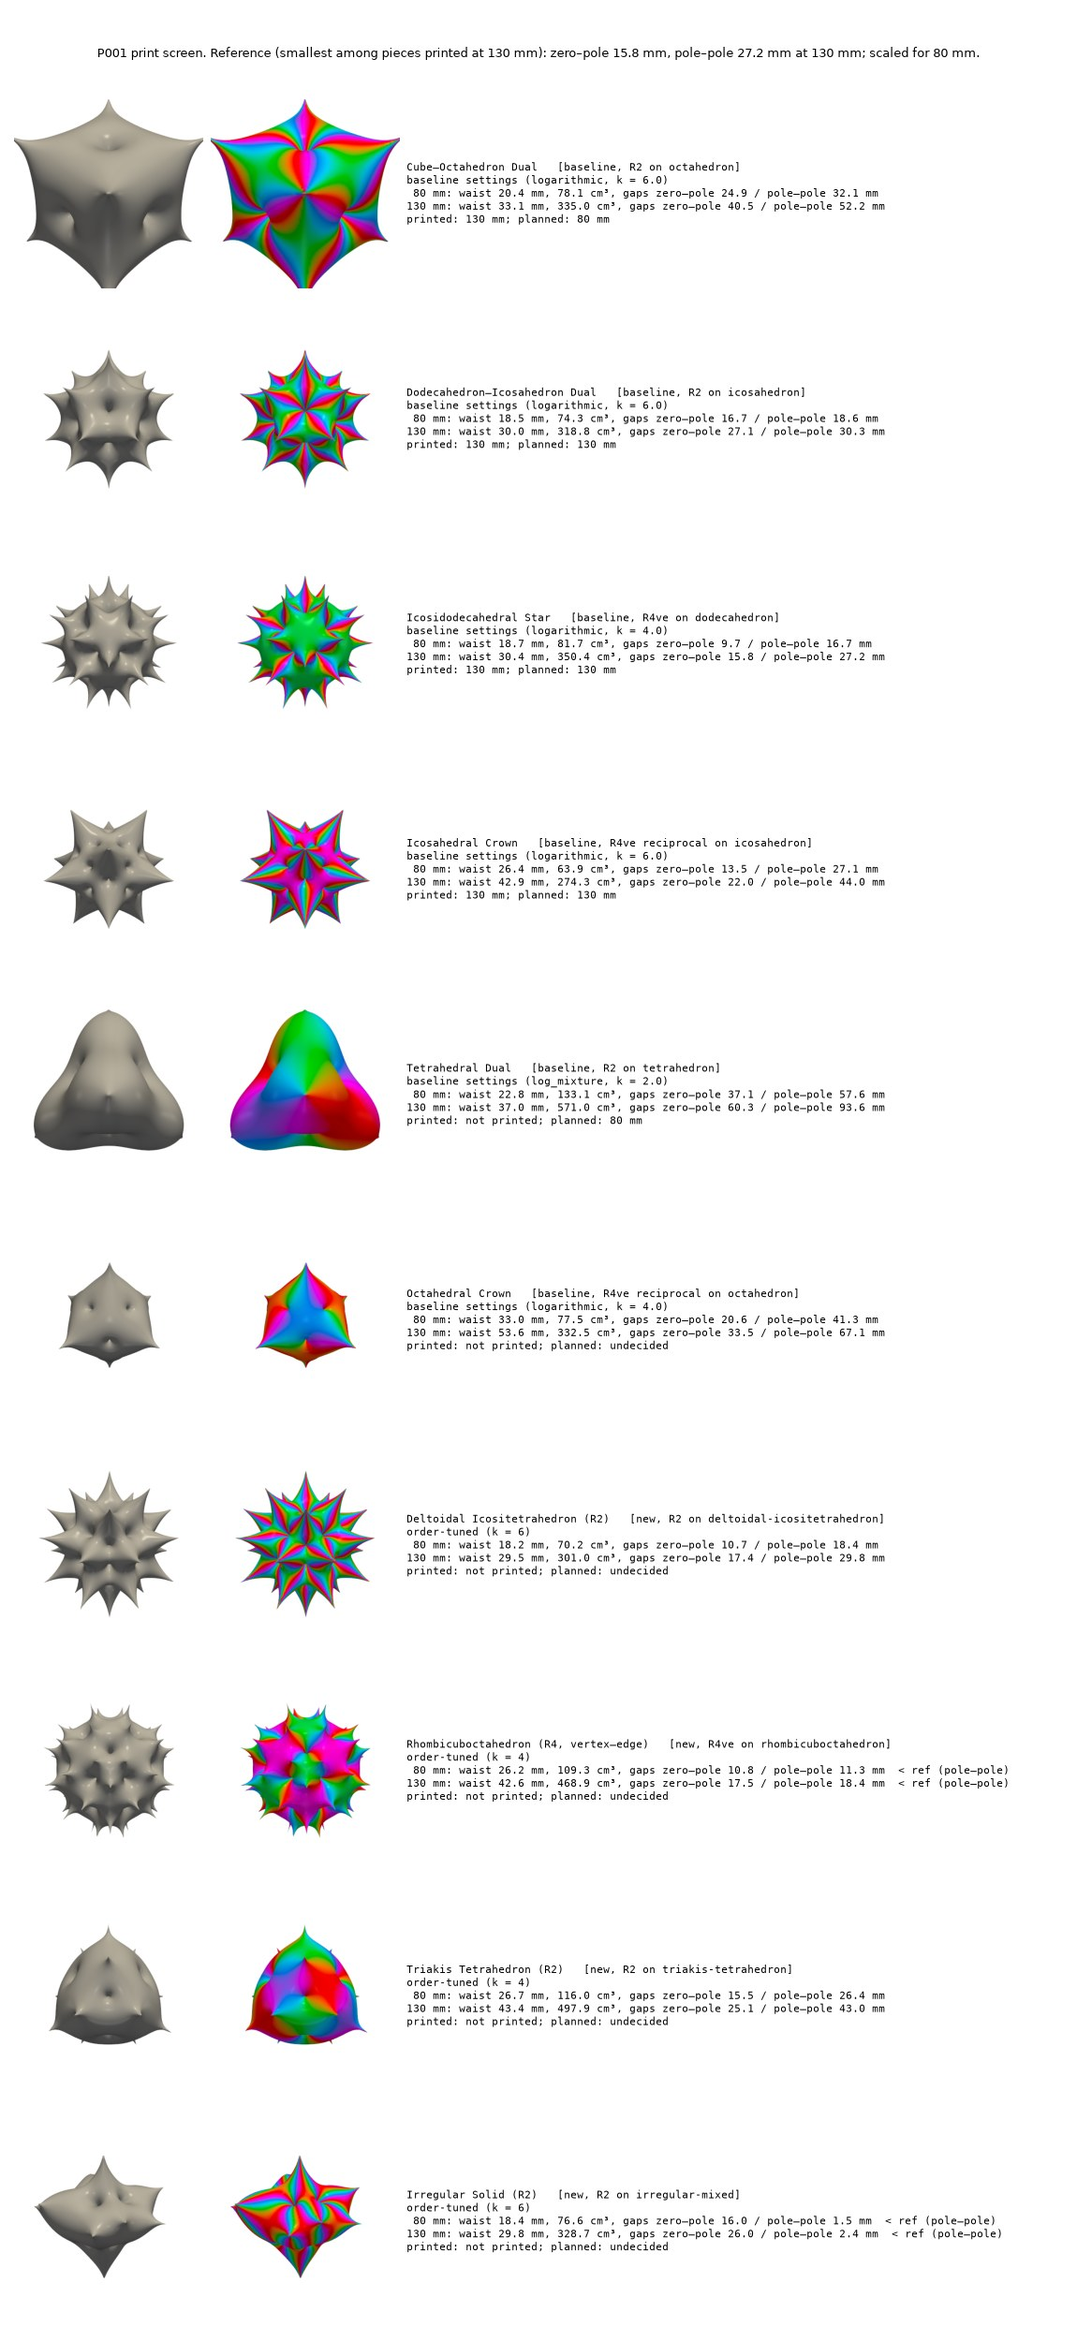
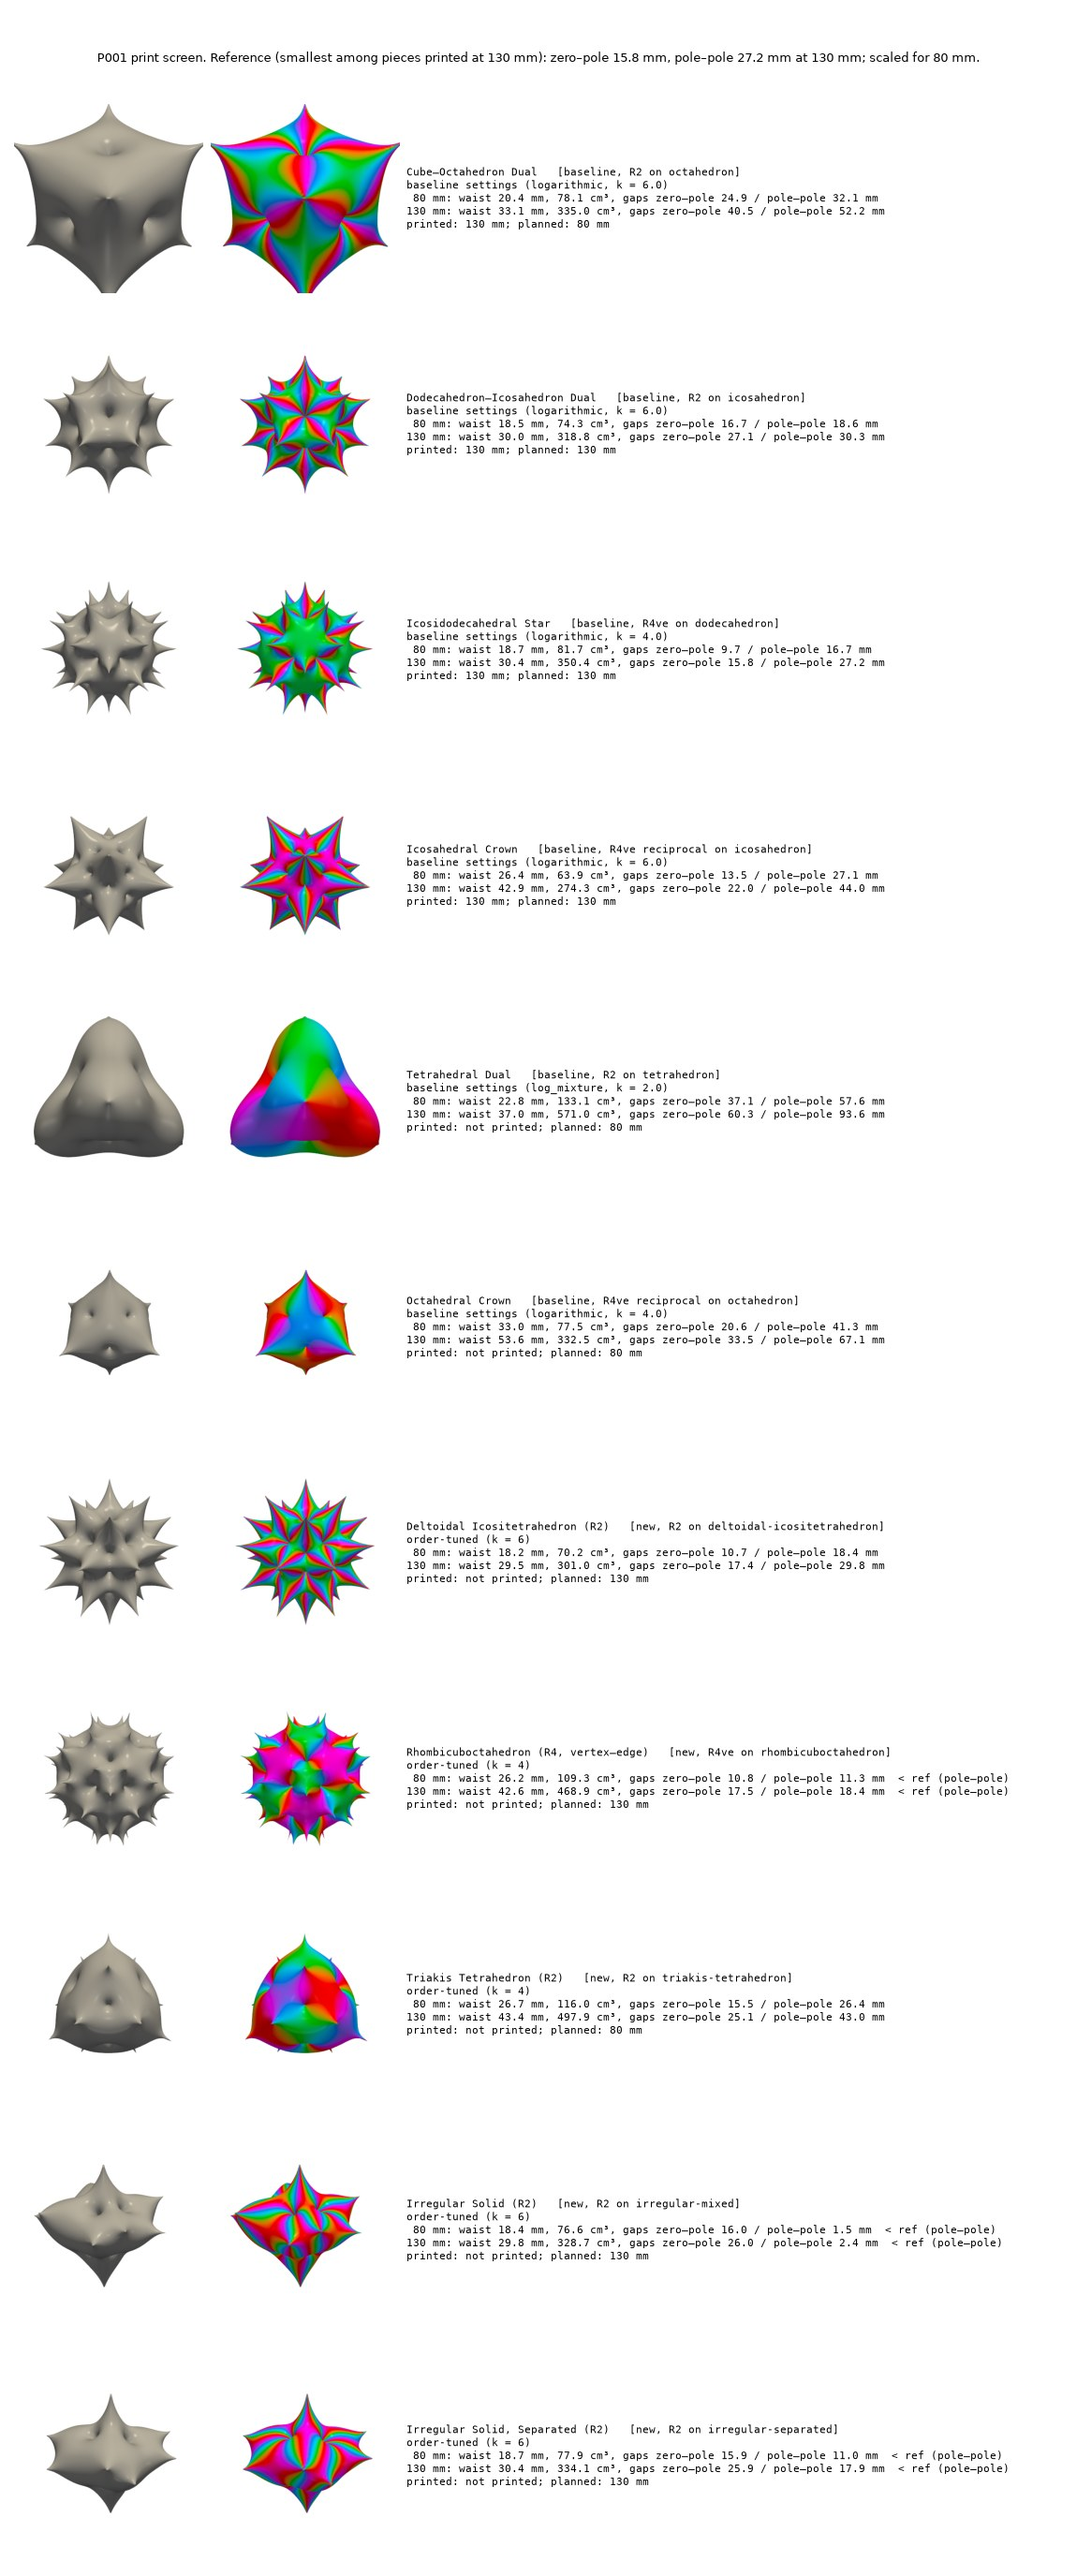
P001-print-screen: rerun with irregular-separated and the shared meshing path
Claude-Session: https://claude.ai/code/session_01QNebQPZ4GBj3ZAru4Lb3oM

diff --git a/catalog/CHECKLIST.md b/catalog/CHECKLIST.md
@@ -15,7 +15,7 @@ edit by hand: change the catalog and regenerate.
 | Rhombicuboctahedron (R4, vertex–edge) | new | screened | yes | –/– | 130 mm | – | – | – | export 80 and 130 mm STLs (B2) |
 | Triakis Tetrahedron (R2) | new | screened | yes | –/– | 80 mm | – | – | – | export 80 and 130 mm STLs (B2) |
 | Irregular Solid (R2) | new | screened | yes | –/– | 130 mm | – | – | – | export 80 and 130 mm STLs (B2) |
-| Irregular Solid, Separated (R2) | new | candidate | – | –/– | 130 mm | – | – | – | screen at 80 and 130 mm (B1) |
+| Irregular Solid, Separated (R2) | new | screened | yes | –/– | 130 mm | – | – | – | export 80 and 130 mm STLs (B2) |
 | Hexagonal Pyramid (R2) | new | candidate | – | –/– | – | – | – | – | none (digital only) |
 
 11 of 12 pieces have an open action.
